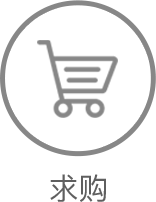
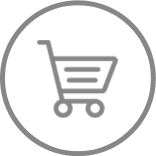
发布选择效果补全

Changed region(s): [[0.0, 0.0, 1.0, 1.0]]

diff --git a/src/pages/step1/index.vue b/src/pages/step1/index.vue
@@ -1,8 +1,17 @@
 <template>
     <div class="step1-container">
-        <div class="grid" @click="check(typeConfig['sell'])" :class="{'active': active == typeConfig['sell']}"></div>
-        <div class="grid" @click="check(typeConfig['buy'])" :class="{'active': active == typeConfig['buy']}"></div>
-        <div class="grid" @click="check(typeConfig['logistics'])" :class="{'active': active == typeConfig['logistics']}"></div>
+        <div class="grid">
+            <div class="img-container" @click="check(typeConfig['sell'])" :class="{'active': active == typeConfig['sell']}"></div>
+            <p>厨具</p>
+        </div>
+        <div class="grid">
+            <div class="img-container" @click="check(typeConfig['buy'])" :class="{'active': active == typeConfig['buy']}"></div>
+            <p>求购</p>
+        </div>
+        <div class="grid">
+            <div class="img-container" @click="check(typeConfig['logistics'])" :class="{'active': active == typeConfig['logistics']}"></div>
+            <p>物流</p>
+        </div>
     </div>
 </template>
 <script>
@@ -11,7 +20,7 @@
     export default {
         data() {
             return {
-                active: INDEX_PAGE_LIST_TYPE['sell'],
+                active: "",
                 typeConfig: INDEX_PAGE_LIST_TYPE
             }
         },
@@ -43,25 +52,41 @@
         .grid {
             width: 100%;
             height: 33.333333vh;
+            .img-container {
+                height: 20vh;
+                &.active + p {
+                    color: #48cb53;
+                }
+            }
+            p {
+                text-align: center;
+                color: #878787;
+            }
             &:nth-child(1) {
-                background: url("../../../static/images/sell.png") center center no-repeat;
-                background-size: 20%;
-                &.active {
-                    background-image: url("../../../static/images/sell.png");
+                .img-container {
+                    background: url("../../../static/images/sell.png") center center no-repeat;
+                    background-size: 20%;
+                    &.active {
+                        background-image: url("../../../static/images/sell_a.png");
+                    }
                 }
             }
             &:nth-child(2) {
-                background: url("../../../static/images/buy.png") center center no-repeat;
-                background-size: 20%;
-                &.active {
-                    background-image: url("../../../static/images/buy.png");
+                .img-container {
+                    background: url("../../../static/images/buy.png") center center no-repeat;
+                    background-size: 20%;
+                    &.active {
+                        background-image: url("../../../static/images/buy_a.png");
+                    }
                 }
             }
             &:nth-child(3) {
-                background: url("../../../static/images/log.png") center center no-repeat;
-                background-size: 20%;
-                &.active {
-                    background-image: url("../../../static/images/log.png");
+                .img-container {
+                    background: url("../../../static/images/log.png") center center no-repeat;
+                    background-size: 20%;
+                    &.active {
+                        background-image: url("../../../static/images/log_a.png");
+                    }
                 }
             }
         }
